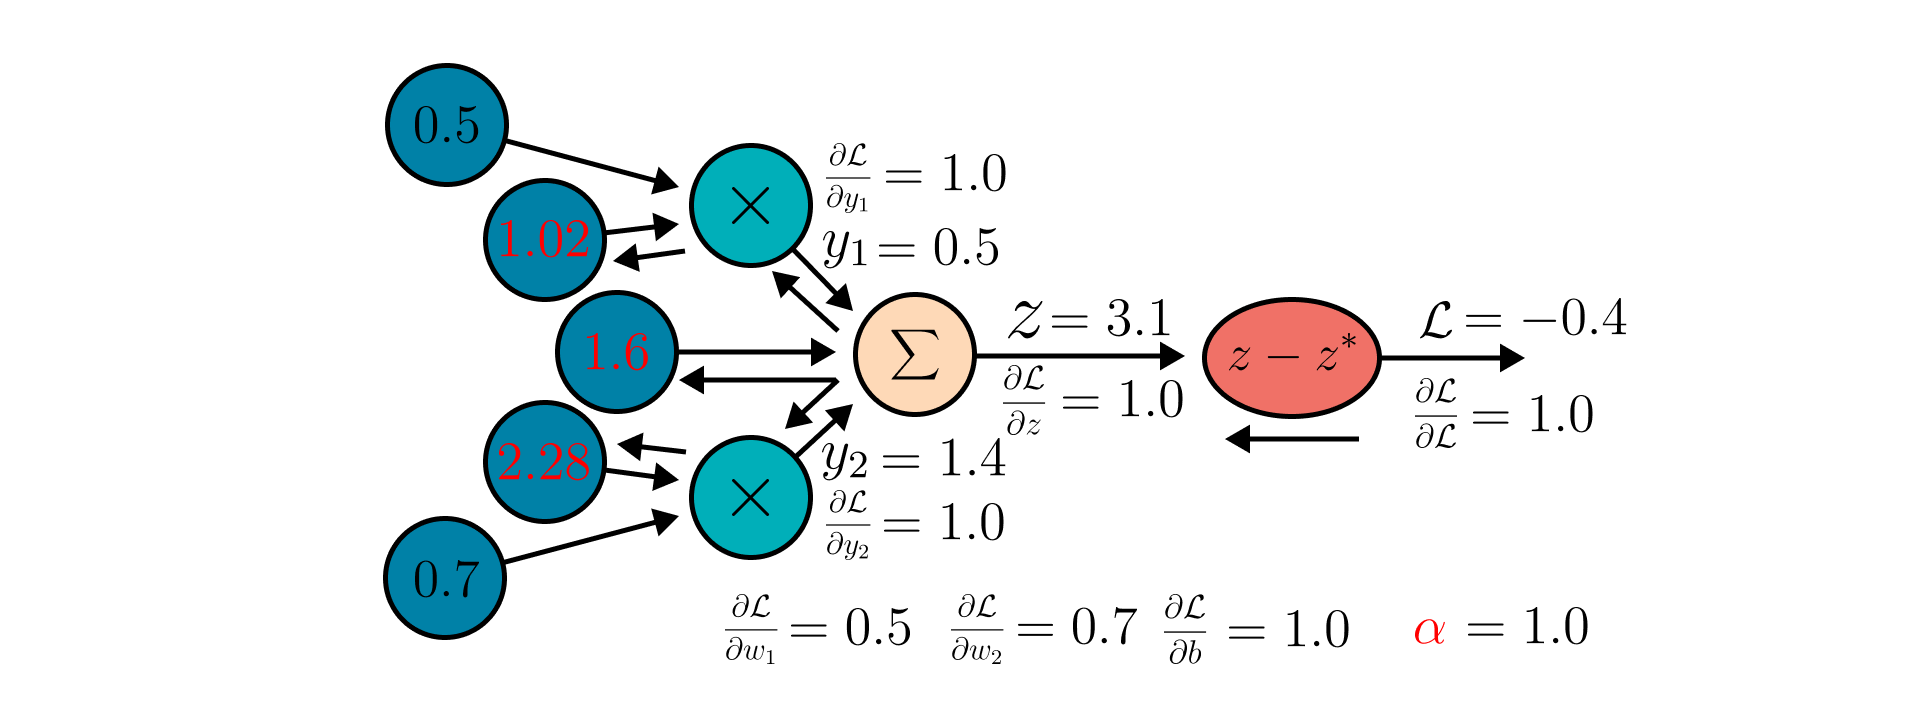
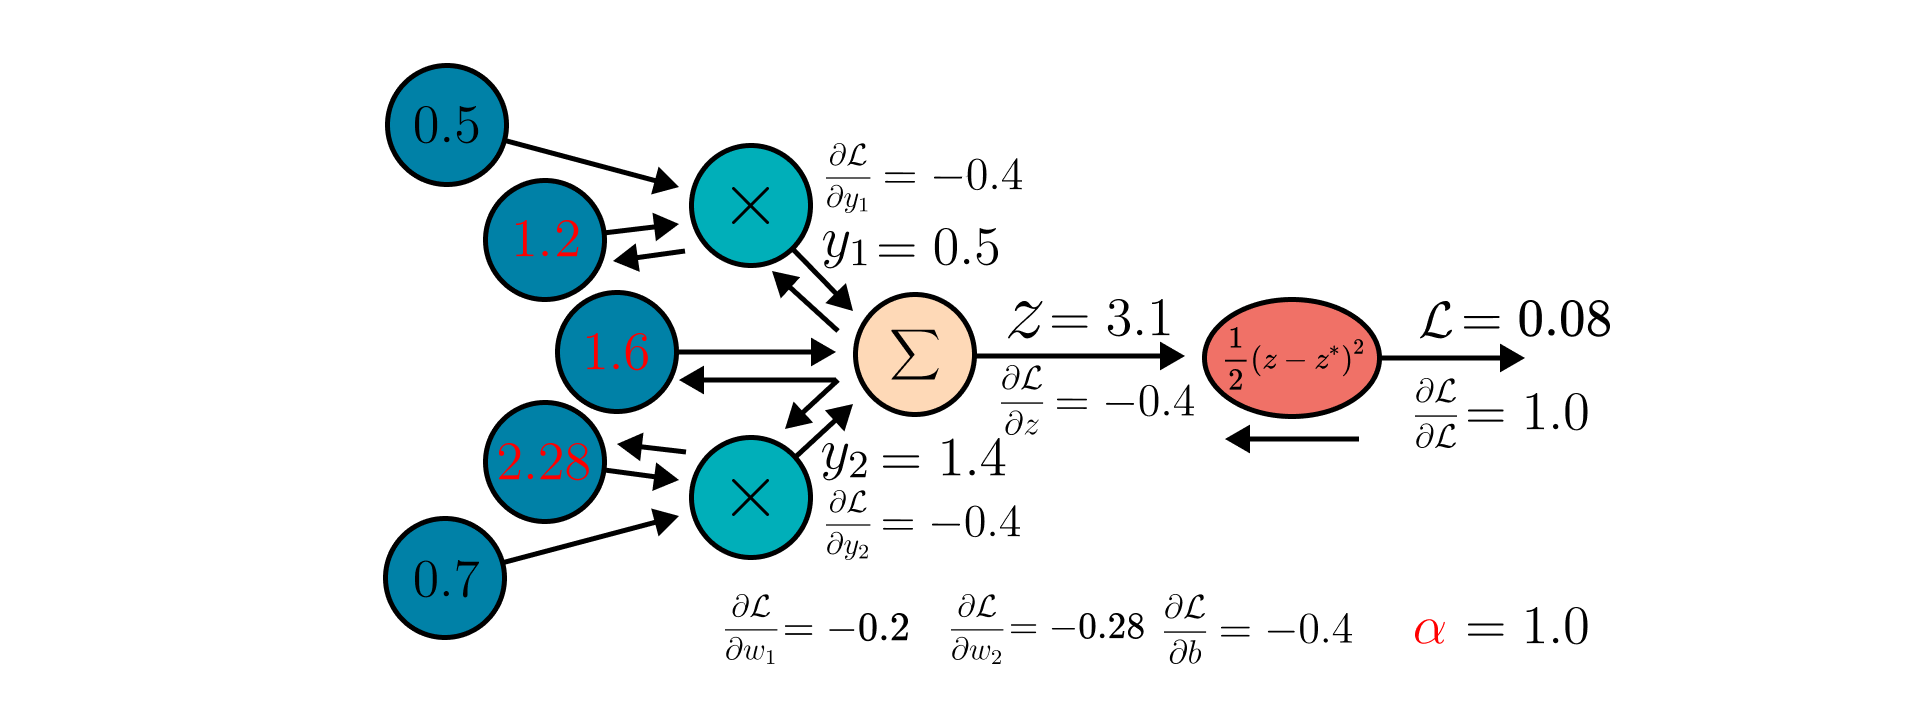
update backpropagation page

diff --git a/docs/training/backpropagation.md b/docs/training/backpropagation.md
@@ -6,7 +6,6 @@ parent: Training
 ---
 
 # Backpropagation
-
 {: .no_toc }
 
 <details open markdown="block">
@@ -20,20 +19,22 @@ parent: Training
 
 ## Introduction
 
-Backpropagation is a cornerstone algorithm in the field of machine learning, particularly in the training of neural networks. It serves as the engine that enables the training of deep learning models. 
+Backpropagation is a cornerstone algorithm in the field of machine learning, particularly in the training of neural networks. It serves as the engine that enables the training of deep learning models.
 
-Conceptually, backpropagation is an algorithm for assigning "blame" or "responsibility" for the final loss to every parameter in the network. It starts with the total error at the end and works backward, using the chain rule to calculate how much each weight contributed to that error.
+Conceptually, backpropagation is an algorithm for assigning "blame" or "responsibility" for the final loss to every parameter in the network. It starts with the total error at the end and works backward, using the chain rule to calculate how much each weight contributed to that error. Mathematically it is nothing more than the chain rule, organized so that the gradient with respect to *all* parameters is obtained at a cost comparable to one evaluation of the network.
 
-In this text, we will explain the backpropagation algorithm and its components.
+In this text, we will explain the backpropagation algorithm and its components on a small worked example, and then show how the same idea scales to whole layers.
 
 {: .note }
 >Note that we will not explain every term used in this text. We assume that you are familiar with the basic concepts of neural networks. If you are not yet, we recommend reading the previous texts in this course.
 
-## The Computation graph
+## The Computation Graph
 
-The computation graph is a visual representation of the computations that are performed in a neural network. It is a directed acyclic graph that shows how the input data is transformed as it passes through the network.
+A computation graph is a directed acyclic graph in which the nodes are elementary operations (multiplication, summation, an activation function, the loss) and the edges carry the values flowing between them. Any neural network can be drawn this way. The graph is simple for a single neuron and large for a deep network, but it is always built from the same few kinds of nodes.
 
-Depending on the architecture of the network, the computation graph can be simple or complex. For example, a simple neuron with $n$ inputs and one output can be represented in the following way:
+The graph is more than a drawing. Automatic differentiation libraries build exactly this structure during every forward pass so that they can walk it backwards afterwards.
+
+For example, a simple neuron with $$n$$ inputs and one output can be represented in the following way:
 
 <div align="center">
   <img src="{{ site.baseurl }}/assets/images/neuron_graph.png" width="800">
@@ -43,21 +44,29 @@ We can easily visualize the forward and backward pass of the network using the c
 
 ## Components of the Backpropagation Algorithm
 
-The backpropagation algorithm consists of three main components: the forward pass, the backward pass, and updating the weights. The forward pass is sometimes not considered a part of the backpropagation algorithm, but it is essential for understanding how the algorithm works.
+One training step consists of three parts: the forward pass, the backward pass and the weight update. Strictly speaking, only the backward pass *is* backpropagation. The forward pass is a prerequisite, because it produces the values the backward pass needs, and the update is the job of the optimizer described on the [gradient descent]({{ site.baseurl }}{% link docs/training/gradient-descent.md %}) page. We go through all three because they only make sense together.
 
-We will explain each of these components in more detail and we will use this simple neural network as an example.
+We will use this simple network as a running example: a single neuron with two inputs, no activation function and a squared-error loss.
 
 <div align="center">
   <img src="{{ site.baseurl }}/assets/images/simple_network.png" width="800">
 </div>
 
-$$ \boldsymbol{x}=\begin{bmatrix}{0.5 \\ 0.7}\end{bmatrix} \bar{\boldsymbol{w}}=\begin{bmatrix}{1.0 \\ 0.7 \\ 2.0}\end{bmatrix} z^{*}=3.5 $$
+$$ z = w_1 x_1 + w_2 x_2 + b, \qquad \mathcal{L} = \tfrac{1}{2}\,(z - z^{*})^2 $$
+
+The factor $$\tfrac{1}{2}$$ is there only to make the derivative tidy, $$\partial\mathcal{L}/\partial z = z - z^{*}$$. The concrete numbers are
+
+$$ \boldsymbol{x} = \begin{bmatrix} x_1 \\ x_2 \end{bmatrix} = \begin{bmatrix} 0.5 \\ 0.7 \end{bmatrix}, \qquad \begin{bmatrix} w_1 \\ w_2 \\ b \end{bmatrix} = \begin{bmatrix} 1.0 \\ 2.0 \\ 1.2 \end{bmatrix}, \qquad z^{*} = 3.5. $$
 
 ### The Forward Pass
 
-The forward pass is the first step in the backpropagation algorithm. In the forward pass, the input data is passed through the network, and the output is calculated. The output is then compared to the true output, and the error is calculated using a loss function. The loss function is a measure of how far the predicted output is from the true output.
+In the forward pass, the input data is passed through the network, and the output is calculated. The output is then compared to the true (expected) output, and the error is calculated using a loss function. The loss function is a measure of how far the predicted output is from the true output.
 
-In the computational graph it is presented as calculation of the output of the network. It is represented by arrows that go from left to right.
+In the computation graph the forward pass follows the arrows from left to right. For our example
+
+$$ y_1 = w_1 x_1 = 0.5, \qquad y_2 = w_2 x_2 = 1.4, \qquad z = y_1 + y_2 + b = 3.1, \qquad \mathcal{L} = \tfrac{1}{2}\,(3.1 - 3.5)^2 = 0.08. $$
+
+Every intermediate value ($$y_1$$, $$y_2$$, $$z$$) is kept. The backward pass will need them.
 
 <div align="center">
   <img src="{{ site.baseurl }}/assets/images/simple_network_fwd.png" width="800">
@@ -65,20 +74,40 @@ In the computational graph it is presented as calculation of the output of the n
 
 ### The Backward Pass
 
-The backward pass is the second step in the backpropagation algorithm. In the backward pass, the gradient of the loss function with respect to the weights of the network is calculated.
-
-In the backward pass the chain-rule is used to calculate the gradients as we propagate through the network.
+In the backward pass, the gradient of the loss function with respect to every parameter of the network is calculated. We walk the graph from the loss back to the inputs, against the arrows, and apply the chain rule at every node.
 
 {: .definition }
->**Chain Rule** is a formula that expresses the derivative of the composition of the differentiable functions $f$ and $g$ in terms of the derivatives of $f$ and $g$. More precisely, if $h = f \circ g$ is the function such that $h(x) = f(g(x))$ for every $x$, then the chain rule is, in Lagrange's notation:
+>**Chain Rule** is a formula that expresses the derivative of the composition of the differentiable functions $$f$$ and $$g$$ in terms of the derivatives of $$f$$ and $$g$$. More precisely, if $$h = f \circ g$$ is the function such that $$h(x) = f(g(x))$$ for every $$x$$, then the chain rule is, in Lagrange's notation,
 >
->$$h'(x) = f'(g(x)) g'(x)$$.
+>$$h'(x) = f'(g(x))\, g'(x),$$
 >
->In Leibniz's notation (if $y = f(z)$ and $z = g(x)$):
+>and in Leibniz's notation (if $$y = f(z)$$ and $$z = g(x)$$)
 >
->$$\frac{dy}{dx} = \frac{dy}{dz} \frac{dz}{dx}$$.
+>$$\frac{dy}{dx} = \frac{dy}{dz}\,\frac{dz}{dx}.$$
 
-In the computational graph it is presented as calculation of the gradients of the loss function with respect to the weights of the network. It is represented by arrows that go from right to left.
+{: .definition }
+>**Chain rule with several paths.** If $$x$$ influences the loss through several intermediate variables $$u_1, \dots, u_n$$, the contributions of all paths are summed:
+>
+>$$\frac{\partial\mathcal{L}}{\partial x} = \sum_{i=1}^{n} \frac{\partial\mathcal{L}}{\partial u_i}\,\frac{\partial u_i}{\partial x}.$$
+>
+>In the graph this is the rule for a value that fans out into several nodes: the gradients arriving along the different edges are added up. You will need it wherever a parameter is used more than once, for instance in a [convolutional layer]({{ site.baseurl }}{% link docs/models/convolutional-networks.md %}), where one kernel weight affects every output pixel.
+
+Applied to a computation graph, the chain rule turns into a single local rule that is executed once per node:
+
+{: .important }
+>**Gradient with respect to an input of a node**
+>
+>downstream gradient = upstream gradient × local derivative.
+>
+>Each node receives the gradient of the loss with respect to its own output (the *upstream gradient*, arriving from the right), multiplies it by the derivative of its own operation with respect to each of its inputs, and passes the results (the *downstream gradient*) on to the left. No node ever needs to know what the rest of the network looks like.
+
+Let us execute this rule on the example. Our graph has only three kinds of nodes:
+
+- **Loss node** $$\mathcal{L} = \tfrac{1}{2}(z - z^{*})^2$$. The recursion starts with $$\partial\mathcal{L}/\partial\mathcal{L} = 1$$. The local derivative is $$z - z^{*}$$, so $$\partial\mathcal{L}/\partial z = 1 \cdot (3.1 - 3.5) = -0.4$$.
+- **Sum node** $$z = y_1 + y_2 + b$$. The local derivative with respect to each input is $$1$$, so a sum node simply *copies* the upstream gradient to all of its inputs: $$\partial\mathcal{L}/\partial y_1 = \partial\mathcal{L}/\partial y_2 = \partial\mathcal{L}/\partial b = -0.4$$.
+- **Product node** $$y_1 = w_1 x_1$$. The local derivative with respect to $$w_1$$ is the *other* input, $$x_1$$, so a product node *swaps* its inputs: $$\partial\mathcal{L}/\partial w_1 = -0.4 \cdot 0.5 = -0.2$$, and likewise $$\partial\mathcal{L}/\partial w_2 = -0.4 \cdot 0.7 = -0.28$$.
+
+This is why the forward values have to be stored: the product node needs $$x_1$$ from the forward pass to compute the gradient for $$w_1$$. The inputs receive gradients as well ($$\partial\mathcal{L}/\partial x_1 = -0.4 \cdot 1.0 = -0.4$$). They are of no use here, but in a deeper network they are exactly the upstream gradient that the previous layer continues with.
 
 <div align="center">
   <img src="{{ site.baseurl }}/assets/images/simple_network_bwd.png" width="800">
@@ -86,34 +115,78 @@ In the computational graph it is presented as calculation of the gradients of th
 
 ### Updating the Weights
 
-After the gradients are calculated, the weights of the network are updated using an optimization algorithm. The most common optimization algorithm used in neural networks is stochastic gradient descent (SGD). The weights are updated in the opposite direction of the gradient to minimize the loss function.
+After the gradients are calculated, the optimizer updates the parameters. The simplest optimizer, gradient descent, moves every parameter a small step against its gradient,
 
-Many variations of optimization algorithms exist, such as Adam, RMSprop, and Adagrad, which have different ways of updating the weights. More about these algorithms can be found [here](https://musstafa0804.medium.com/optimizers-in-deep-learning-7bf81fed78a0)
+$$ w \leftarrow w - \alpha\,\frac{\partial\mathcal{L}}{\partial w}, $$
 
-In the computational graph it is presented as updating the weights of the network. We will use the standard gradient descent with $\alpha=1.0$.
+where $$\alpha$$ is the learning rate. Stochastic and mini-batch variants, and optimizers such as Adam or RMSprop, differ only in how this step is scaled; see the [gradient descent]({{ site.baseurl }}{% link docs/training/gradient-descent.md %}) page and [Ruder's overview of gradient descent optimizers](https://www.ruder.io/optimizing-gradient-descent/). With plain gradient descent and $$\alpha = 1.0$$ our example becomes
+
+$$ w_1 = 1.0 - 1.0 \cdot (-0.2) = 1.2, \qquad w_2 = 2.0 - 1.0 \cdot (-0.28) = 2.28, \qquad b = 1.2 - 1.0 \cdot (-0.4) = 1.6. $$
 
 <div align="center">
   <img src="{{ site.baseurl }}/assets/images/simple_network_update.png" width="800">
 </div>
 
+A quick check that the step went in the right direction: a second forward pass gives $$z = 0.5 \cdot 1.2 + 0.7 \cdot 2.28 + 1.6 = 3.796$$ and $$\mathcal{L} \approx 0.044$$, down from $$0.08$$. The step overshot the target $$z^{*} = 3.5$$ indicating that the learning rate is too large, which is exactly the effect discussed on the gradient descent page.
+
 ## Vector-Jacobian Product
 
-The vector-jacobian product is a way to efficiently calculate the gradient for large matrices. It utilizes linear algebra and matrix multiplication.
-
-It is more efficient to calculate the gradient of the loss function with respect to the weights of the network using the vector-jacobian product as the jacobian matrix can be very large for high-dimensional data. The vector-jacobian product allows us to calculate the gradient without explicitly calculating the jacobian matrix. It also preserves the dimensionality of the input data in the backward pass.
+For a single neuron we could write out every partial derivative by hand. Real layers map vectors to vectors, $$f : \mathbb{R}^n \rightarrow \mathbb{R}^m$$, and the derivative of such a function is the $$m \times n$$ Jacobian matrix $$\partial f / \partial \boldsymbol{z}$$. The local rule from the previous section still holds, it just becomes a matrix product: the downstream gradient is the upstream gradient multiplied by the Jacobian.
 
 {: .definition }
->The **vector-jacobian** product is defined as the following snippet (note that we will mix pseudocode with mathematical expresions)
+>The **vector-Jacobian product** (VJP) of a function $$f$$ at the point $$\boldsymbol{z}$$ with a vector $$\boldsymbol{v}$$ is defined as the following snippet (note that we mix pseudocode with mathematical expressions)
 >
->def $\textrm{vjp}_{f}(\boldsymbol{v}, \boldsymbol{z}):$
+>def $$\textrm{vjp}_{f}(\boldsymbol{v}, \boldsymbol{z}):$$
 >
->&nbsp;&nbsp;&nbsp;&nbsp;return $\boldsymbol{v}^{\top}\cdot\frac{\partial f}{\partial\boldsymbol{z}}$
+>&nbsp;&nbsp;&nbsp;&nbsp;return $$\boldsymbol{v}^{\top}\frac{\partial f}{\partial\boldsymbol{z}}$$
+>
+>In backpropagation $$\boldsymbol{v}$$ is always the upstream gradient $$\partial\mathcal{L}/\partial\boldsymbol{y}$$ of the output $$\boldsymbol{y} = f(\boldsymbol{z})$$. The result is $$\partial\mathcal{L}/\partial\boldsymbol{z}$$: it has the same shape as $$\boldsymbol{z}$$ and becomes the upstream gradient of the node before $$f$$.
 
-The primary advantage of the VJP approach is its efficiency. For a function mapping $$\mathbb{R}^n \rightarrow \mathbb{R}^m$$, the full Jacobian matrix has $$m \times n$$ elements. For a deep neural network, this is an enormous matrix that would be impossible to store in memory. The VJP calculates the required gradient contribution without ever forming this full matrix.
+The primary advantage of the VJP approach is its efficiency. The Jacobian is never formed. For a linear layer with 1000 inputs and 1000 outputs it would have $$10^6$$ entries per sample, and the Jacobian with respect to the weights of a whole network would be far too large to store, yet the product $$\boldsymbol{v}^{\top}\,\partial f/\partial\boldsymbol{z}$$ can usually be computed as cheaply as the forward pass. Each type of layer therefore implements its own VJP directly, as the following example shows.
+
+{: .note }
+>**Example: linear layer** $$\boldsymbol{y} = W\boldsymbol{x} + \boldsymbol{b}$$ with $$W \in \mathbb{R}^{m \times n}$$ (vectors are columns). With the upstream gradient $$\boldsymbol{v} = \partial\mathcal{L}/\partial\boldsymbol{y} \in \mathbb{R}^{m}$$ the three VJPs of the layer are
+>
+>$$\frac{\partial\mathcal{L}}{\partial\boldsymbol{x}} = W^{\top}\boldsymbol{v}, \qquad \frac{\partial\mathcal{L}}{\partial W} = \boldsymbol{v}\,\boldsymbol{x}^{\top}, \qquad \frac{\partial\mathcal{L}}{\partial\boldsymbol{b}} = \boldsymbol{v}.$$
+>
+>Only a matrix-vector product and an outer product are needed; the $$m \times mn$$ Jacobian with respect to $$W$$ never appears. Our neuron is the case $$m = 1$$: $$W = [\,w_1 \; w_2\,]$$, $$\boldsymbol{v} = -0.4$$, and $$\boldsymbol{v}\,\boldsymbol{x}^{\top} = [\,-0.2 \;\; -0.28\,]$$ are exactly the gradients from the figure above.
+
+Multiplying the Jacobians from the loss backwards, one node at a time, is called *reverse-mode* automatic differentiation, and it is what makes backpropagation cheap: for a scalar loss, the gradients with respect to millions of parameters are obtained with a single backward pass whose cost is roughly that of one forward pass. Multiplying from the inputs forwards (*forward mode*, the Jacobian-vector product) would need one pass per input dimension instead.
+
+The figure below shows the backward pass through the chain $$\boldsymbol{x} \rightarrow f \rightarrow \boldsymbol{y} \rightarrow g \rightarrow \boldsymbol{z} \rightarrow \mathcal{L}$$ as a sequence of VJPs. It starts with $$\textrm{vjp}_{\mathcal{L}}(1, \boldsymbol{z})$$, and the result of each call is the $$\boldsymbol{v}$$ of the next one: $$\textrm{vjp}_{g}(\partial\mathcal{L}/\partial\boldsymbol{z}, \boldsymbol{y})$$, then $$\textrm{vjp}_{f}(\partial\mathcal{L}/\partial\boldsymbol{y}, \boldsymbol{x})$$.
 
 <div align="center">
   <img src="{{ site.baseurl }}/assets/images/vjp_graph.png" width="800">
 </div>
+
+## Backpropagation in Practice
+
+In practice you never write VJPs yourself. Automatic differentiation libraries such as PyTorch, JAX or TensorFlow record the computation graph during the forward pass and, when you call `loss.backward()`, they call the VJP of every recorded operation in reverse order. The whole example above is a few lines:
+
+```python
+import torch
+
+x = torch.tensor([0.5, 0.7])
+w = torch.tensor([1.0, 2.0], requires_grad=True)
+b = torch.tensor(1.2, requires_grad=True)
+z_star = 3.5
+
+z = w @ x + b                      # forward pass, the graph is recorded
+loss = 0.5 * (z - z_star) ** 2     # tensor(0.0800)
+
+loss.backward()                    # backward pass, fills .grad
+print(w.grad, b.grad)              # tensor([-0.2000, -0.2800]) tensor(-0.4000)
+
+with torch.no_grad():              # gradient descent step with alpha = 1.0
+    w -= 1.0 * w.grad
+    b -= 1.0 * b.grad
+print(w, b)                        # tensor([1.2000, 2.2800]) tensor(1.6000)
+```
+
+Understanding what happens underneath is still essential. Two consequences you will meet immediately:
+
+- **Memory.** Every intermediate value has to be kept until the backward pass has consumed it: $$y_1$$, $$y_2$$ and $$z$$ in the example, whole activation tensors for every layer and every sample of the batch in a real network. This is why training needs several times more GPU memory than inference, why the batch size is limited by memory, and why inference code is wrapped in `torch.no_grad()`, which tells the library not to record the graph.
+- **Gradient checking.** Any gradient can be verified against a finite difference, $$\partial\mathcal{L}/\partial w \approx \big(\mathcal{L}(w + \varepsilon) - \mathcal{L}(w - \varepsilon)\big) / 2\varepsilon$$ with $$\varepsilon \approx 10^{-5}$$ in double precision. This costs two loss evaluations per parameter, far too slow for training, but it is the standard way to test a hand-written backward pass of a custom layer.
 
 ## Expected Knowledge
 
@@ -121,10 +194,12 @@ Answer the following questions to test your understanding of backpropagation.
 
 1. **Conceptual Understanding:** Explain backpropagation in non-mathematical terms. What is a "computation graph," and how does backpropagation use it to compute gradients?
 
-2. **The Chain Rule:** Imagine a simple computation: $$z = w \cdot x + b$$, followed by $$a = \text{ReLU}(z)$$, and a loss $$L = (a_{true} - a)^2$$. Using the chain rule, write down the expression for the partial derivative of the loss with respect to the weight, $$\frac{\partial L}{\partial w}$$.
+2. **The Chain Rule:** Imagine a simple computation: $$z = w \cdot x + b$$, followed by $$a = \text{ReLU}(z)$$, and a loss $$\mathcal{L} = (a_{true} - a)^2$$. Using the chain rule, write down the expression for the partial derivative of the loss with respect to the weight, $$\frac{\partial \mathcal{L}}{\partial w}$$.
 
 3. **Vector-Jacobian Product (VJP):** What is the main practical advantage of using the Vector-Jacobian Product (VJP) to implement backpropagation in deep learning libraries like PyTorch or TensorFlow, compared to explicitly calculating the entire Jacobian matrix?
 
 4. **Forward vs. Backward Pass:** What key quantity is computed during the **forward pass**? What key quantity is computed for each parameter during the **backward pass**? How do these two passes work together in the context of gradient descent?
 
-In practice, the backpropagation algorithm is implemented using automatic differentiation libraries such as TensorFlow and PyTorch. These libraries handle the computation of the gradients automatically, so you don't have to worry about the details of the backpropagation algorithm, while using them. However, understanding the backpropagation algorithm is essential for understanding how neural networks are trained.
+5. **Weight Sharing:** The same weight $$w$$ is used twice in a graph, $$z = w x_1 + w x_2$$. Express $$\frac{\partial \mathcal{L}}{\partial w}$$ in terms of $$\frac{\partial \mathcal{L}}{\partial z}$$. Which rule from this page did you use, and why does the same situation arise in a convolutional layer?
+
+6. **Memory:** Why does training a network need considerably more memory than running it for inference, and what exactly has to be stored? What does `torch.no_grad()` change?
